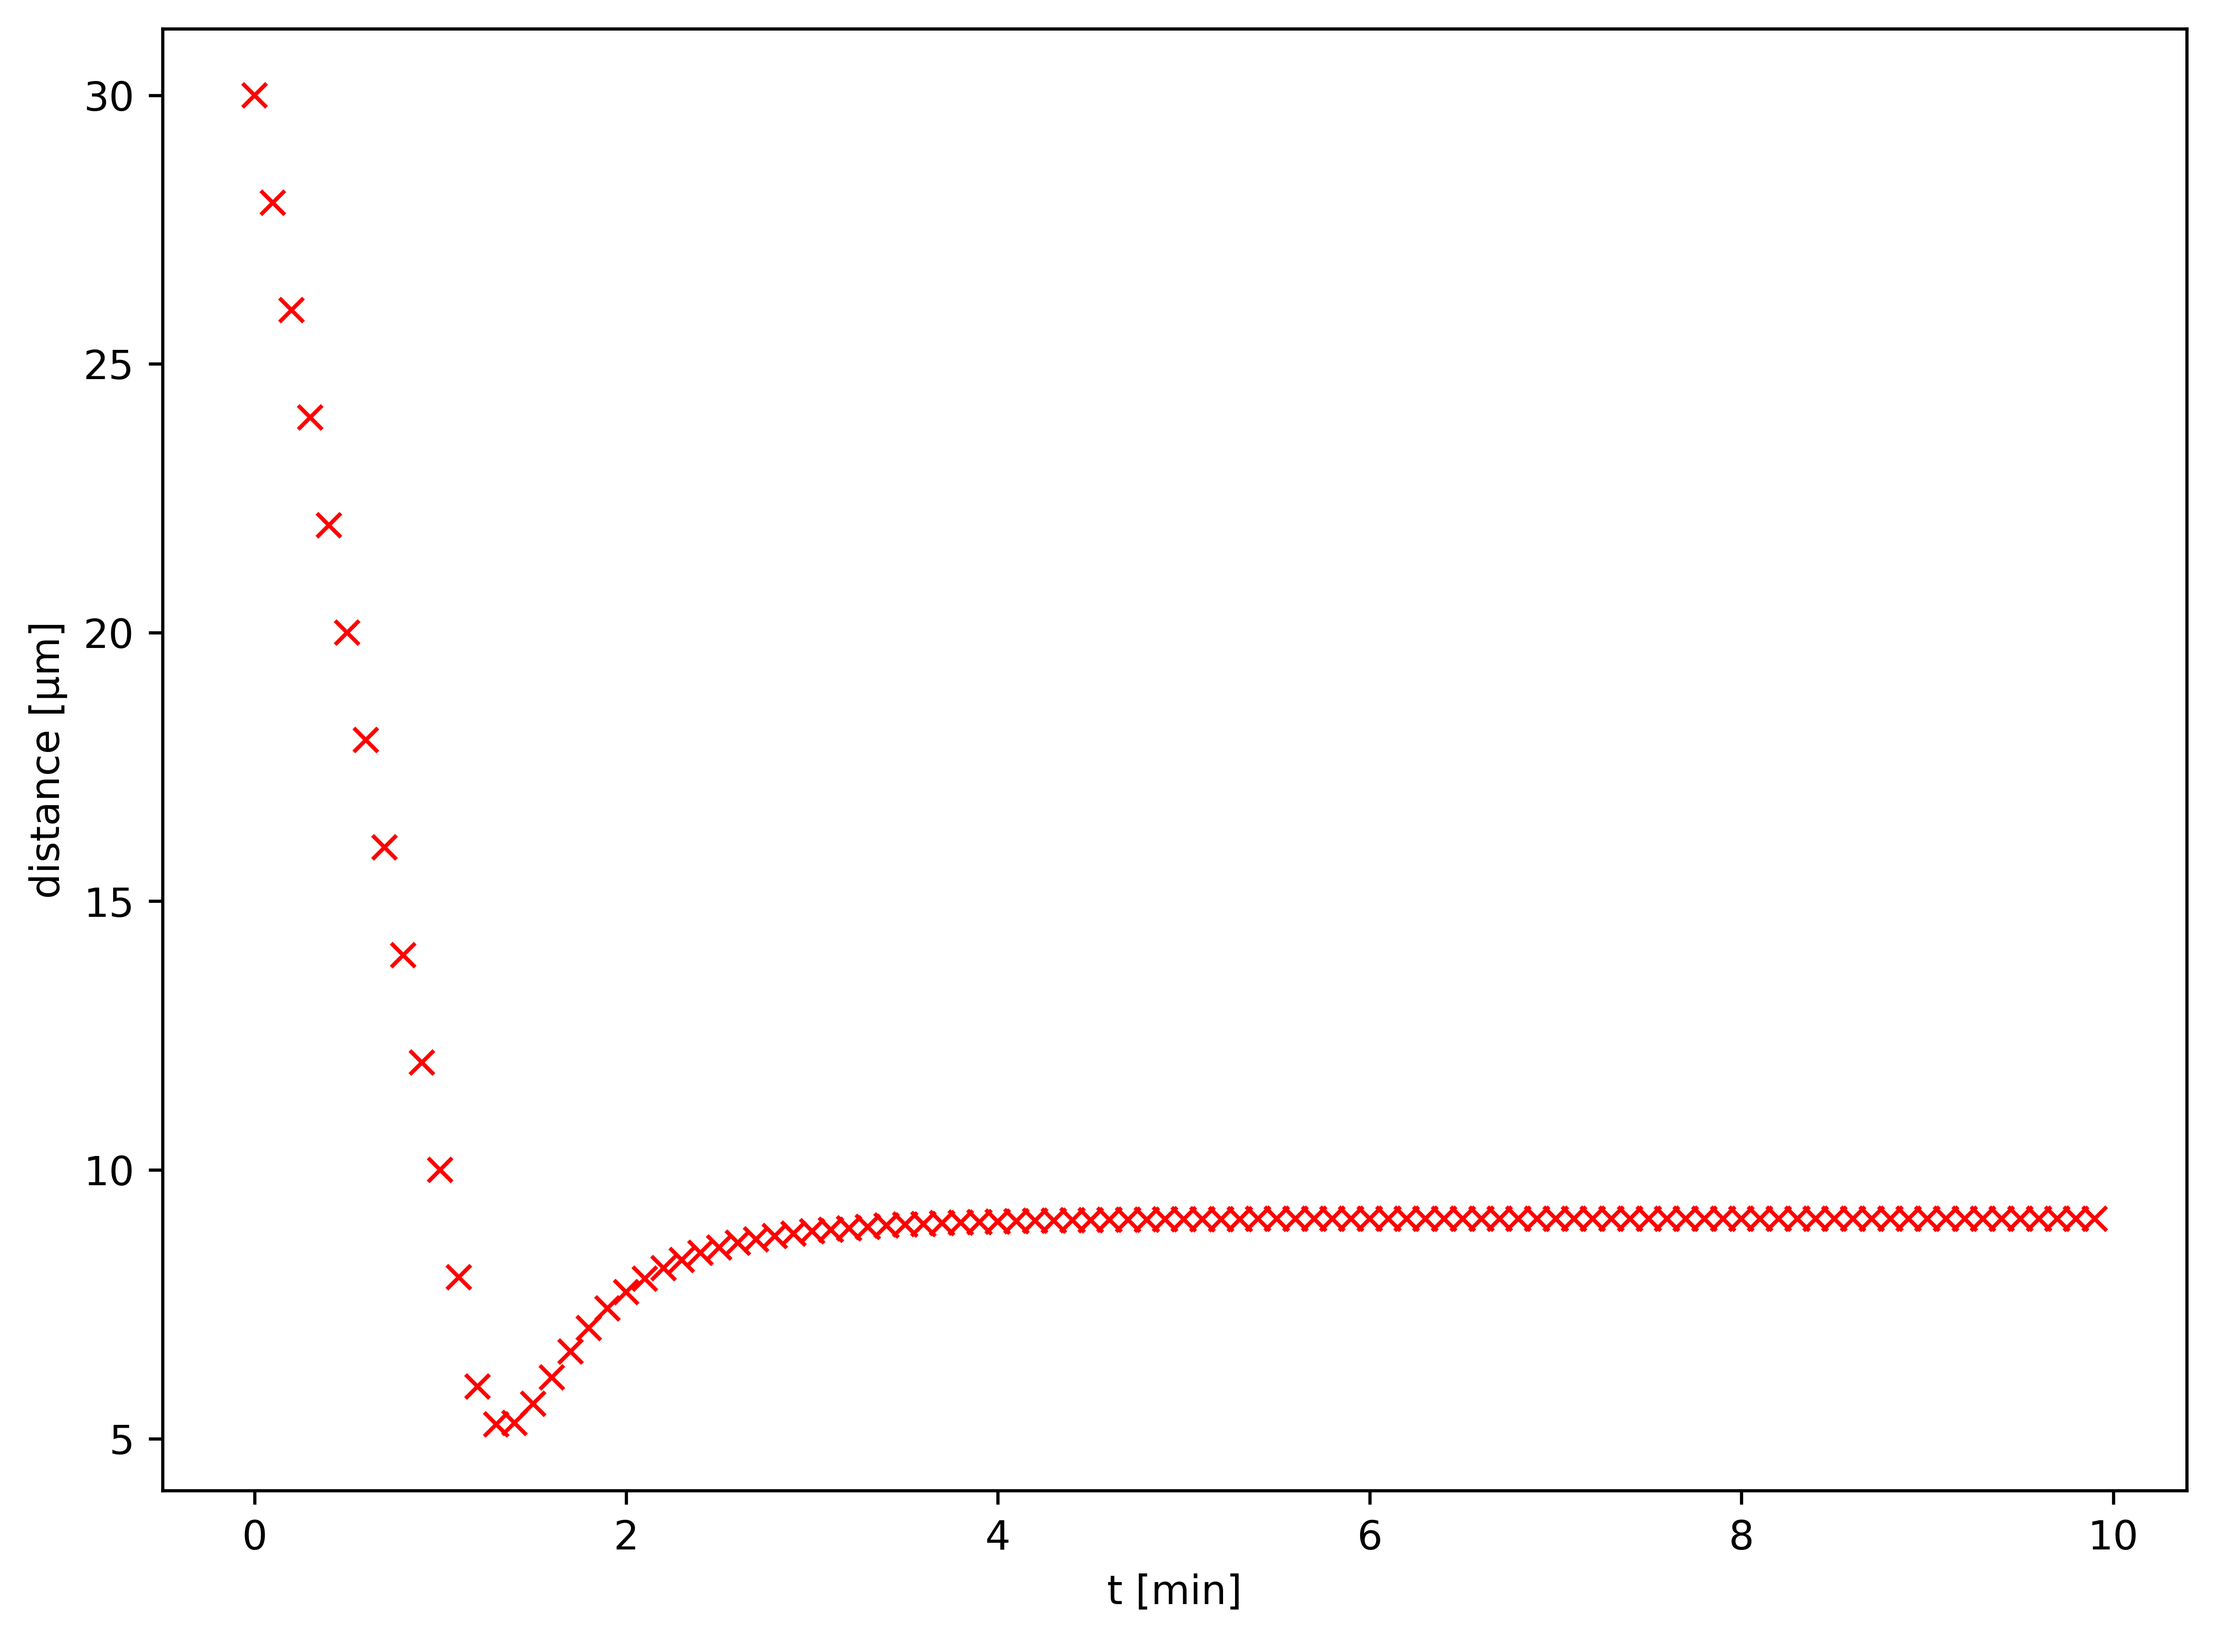
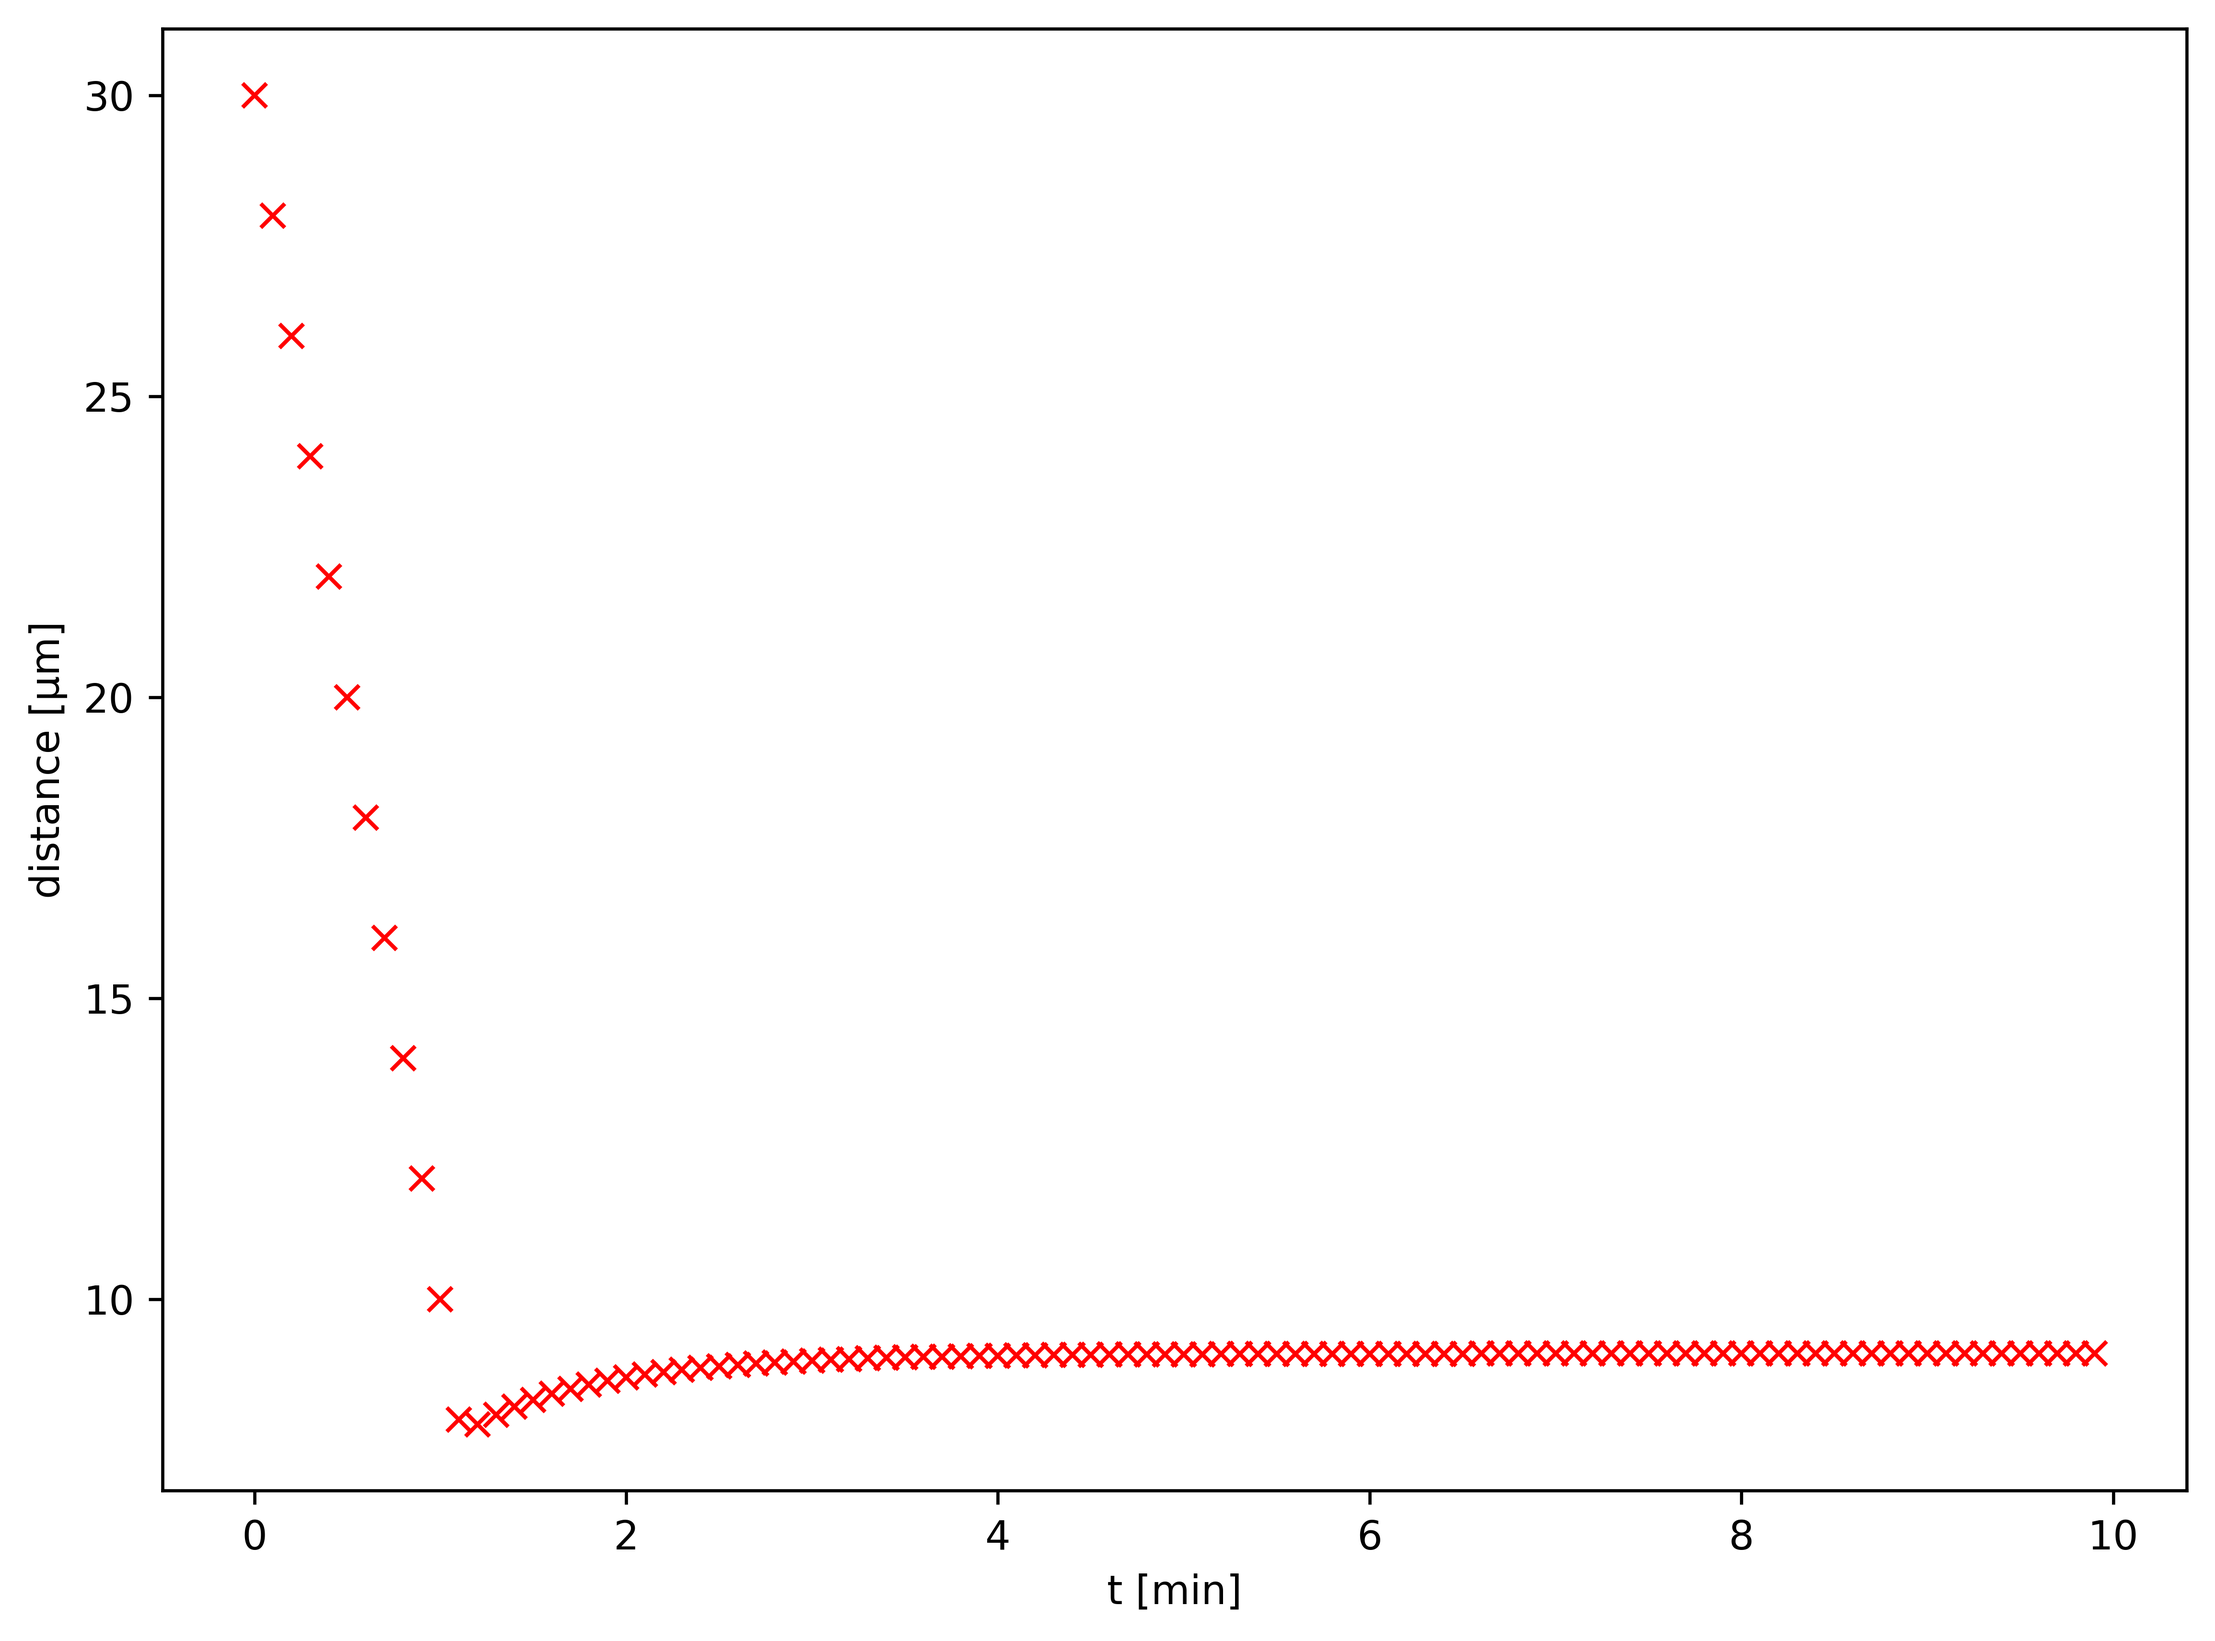
Add main.cpp, yaml file and figure

diff --git a/CompuTiX/PushingCells/main.cpp b/CompuTiX/PushingCells/main.cpp
@@ -203,7 +203,7 @@
 //!     - overlap - \link CompuTiX::Components::DegreesOfFreedom::DegreeOfFreedom<CompuTiX::Types::Scalar> DegreeOfFreedom\endlink of \link CompuTiX::Types::Scalar Scalar\endlink type representing the overlap between the two spheres.
 //!     Physical dimension: \link CompuTiX::SIUnits::meter \f$\unit{\meter}\f$\endlink.
 //!     - overlap_limit - \link CompuTiX::Components::DegreesOfFreedom::DegreeOfFreedom<CompuTiX::Types::Scalar> DegreeOfFreedom\endlink of \link CompuTiX::Types::Scalar Scalar\endlink type representing the threshold for the overlap to trigger removal of the external force.
-//!     Physical dimension: \link CompuTiX::SIUnits::meter ^ 3 \f$\unit{\meter^3}\f$\endlink.
+//!     Physical dimension: \link CompuTiX::SIUnits::meter \f$\unit{\meter}\f$\endlink.
 //! - Spheres - \link CompuTiX::Components::Collections::ParticleCollection ParticleCollection\endlink representing the spheres.
 //!     - x - \link CompuTiX::Components::DegreesOfFreedom::DegreeOfFreedom<CompuTiX::Types::Position> DegreeOfFreedom\endlink of
 //!       \link CompuTiX::Types::Position Position\endlink type representing the spheres' centers.
@@ -352,7 +352,7 @@ int main( int argc, char** argv )
     universes->add( DegreesOfFreedom::DegreeOfFreedom< Types::Scalar >::create( "gamma_tangential", SIUnits::pascal * SIUnits::second / SIUnits::meter ) );
     universes->add( DegreesOfFreedom::DegreeOfFreedom< Types::Scalar >::create( "gamma_normal", SIUnits::pascal * SIUnits::second / SIUnits::meter ) );
     universes->add( DegreesOfFreedom::DegreeOfFreedom< Types::Scalar >::create( "relative_tolerance", SIUnits::dimensionless ) );
-    universes->add( DegreesOfFreedom::DegreeOfFreedom< Types::Matrix >::create( "M", SIUnits::kilogram ) );
+    // universes->add( DegreesOfFreedom::DegreeOfFreedom< Types::Matrix >::create( "M", SIUnits::kilogram ) );
     universes->add( DegreesOfFreedom::DegreeOfFreedom< Types::Scalar >::create( "r_contact", SIUnits::meter ) );
     universes->add( DegreesOfFreedom::DegreeOfFreedom< Types::Scalar >::create( "d_limit", SIUnits::meter ) );
     universes->add( DegreesOfFreedom::DegreeOfFreedom< Types::Scalar >::create( "overlap", SIUnits::meter ) );
@@ -399,7 +399,7 @@ int main( int argc, char** argv )
 
     // - Physical and geometrical parameters:
     //Hepatocyte mass
-    constexpr Types::Scalar mass_hepatocyte = 1.; // [ kg ]
+    constexpr Types::Scalar mass_hepatocyte = 0.; // [ kg ]
     //Initial positions
     const Types::Position x_init_1 = Types::Position::Zero(); // [ m ]
     const Types::Position x_init_2 = 30e-6 * Types::Position::UnitX(); // [ m ]
@@ -418,7 +418,7 @@ int main( int argc, char** argv )
     //Friction coefficient
     const Types::Matrix gamma = 10. * Types::Matrix::Identity(); // [ kg / min ]
     //Adhesion energy density
-    constexpr Types::Scalar adhesion_energy_density = 1e-4; // [ J / m^2 ]
+    constexpr Types::Scalar adhesion_energy_density = 1e-8; // [ J / m^2 ]
 
     // - Collision parameters:
     //Tangential friction coefficient
@@ -444,7 +444,7 @@ int main( int argc, char** argv )
         u.set< Types::Scalar >( Access::Modes::read_write, "gamma_tangential", SIUnits::pascal * SIUnits::second / SIUnits::meter, gamma_tang );
         u.set< Types::Scalar >( Access::Modes::read_write, "gamma_normal", SIUnits::pascal * SIUnits::second / SIUnits::meter, gamma_norm );
         u.set< Types::Scalar >( Access::Modes::read_write, "relative_tolerance", SIUnits::dimensionless, Math::relative_tolerance );
-        u.set< Types::Scalar >( Access::Modes::read_write, "V_limit", SIUnits::meter ^ 3, V_lim );
+        u.set< Types::Scalar >( Access::Modes::read_write, "d_limit", SIUnits::meter, d_lim );
         u.set< Types::Scalar >( Access::Modes::read_write, "r", SIUnits::meter, r );
 
         // View for spheres
@@ -537,20 +537,27 @@ int main( int argc, char** argv )
                 action->set_parameter_value( "dof", absolute_path( "Universes/Spheres/F" ) );
             }
 
-            // -- reset the mass tensor
+            // -- reset the mass tensor in spheres
             {
-                auto action = forces->add( create_executable( "Elementary::Reset", "Reset mass tensor" ) );
+                auto action = forces->add( create_executable( "Elementary::Reset", "Reset spheres mass tensor" ) );
                 action->set_parameter_value( "collection", absolute_path( "Universes/Spheres" ) );
                 action->set_parameter_value( "dof", absolute_path( "Universes/Spheres/M" ) );
             }
 
-            // -- set mass tensor
+            // -- reset the mass tensor in contacts
             {
+                auto action = forces->add( create_executable( "Elementary::Reset", "Reset contacts mass tensor" ) );
+                action->set_parameter_value( "collection", absolute_path( "Universes/Contacts" ) );
+                action->set_parameter_value( "dof", absolute_path( "Universes/Contacts/M" ) );
+            }
+
+            // -- set mass tensor
+            /*{
                 auto action = forces->add( create_executable( "Elementary::Algebraic::Multiply", "Set mass tensor" ) );
                 action->set_parameter_value( "result", absolute_path( "Universes/Spheres/M" ) );
                 action->set_parameter_value( "a", absolute_path( "Universes/Spheres/id" ) );
                 action->set_parameter_value( "b", absolute_path( "Universes/Spheres/m" ) );
-            }
+            }*/
 
             // -- external force reset
             {
@@ -580,7 +587,7 @@ int main( int argc, char** argv )
                 auto action = forces->add( create_executable( "Contact::Models::Collisions::JKR::Damped::SphereSphere::Overdamped", "Sphere-Sphere JKR contact model" ) );
                 action->set_parameter_value( "collection", absolute_path( "Universes/Contacts" ) );
                 action->set_parameter_value( "r_contact", absolute_path( "Universes/r_contact" ) );
-                action->set_parameter_value( "M", absolute_path( "Universes/M" ) );
+                action->set_parameter_value( "M", absolute_path( "Universes/Contacts/M" ) );
                 action->set_parameter_value( "dt", absolute_path( "Universes/dt" ) );
             }
 
